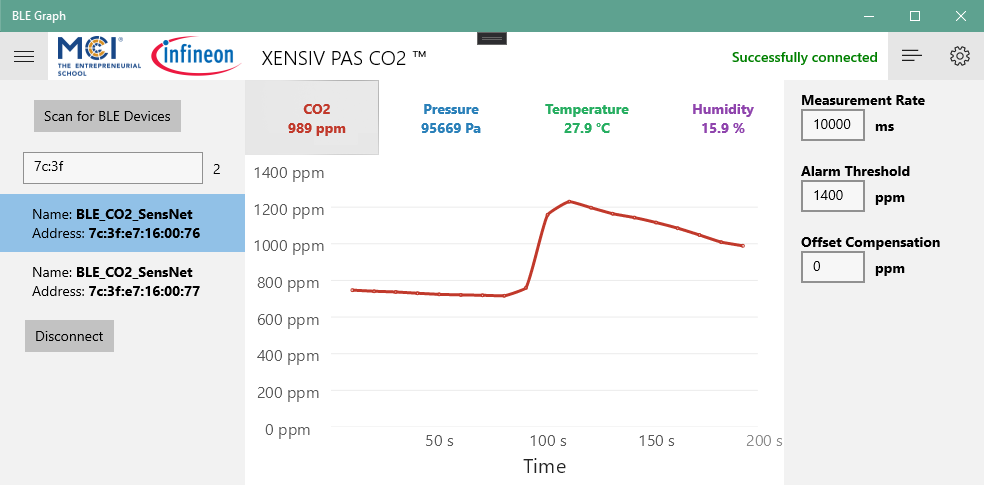
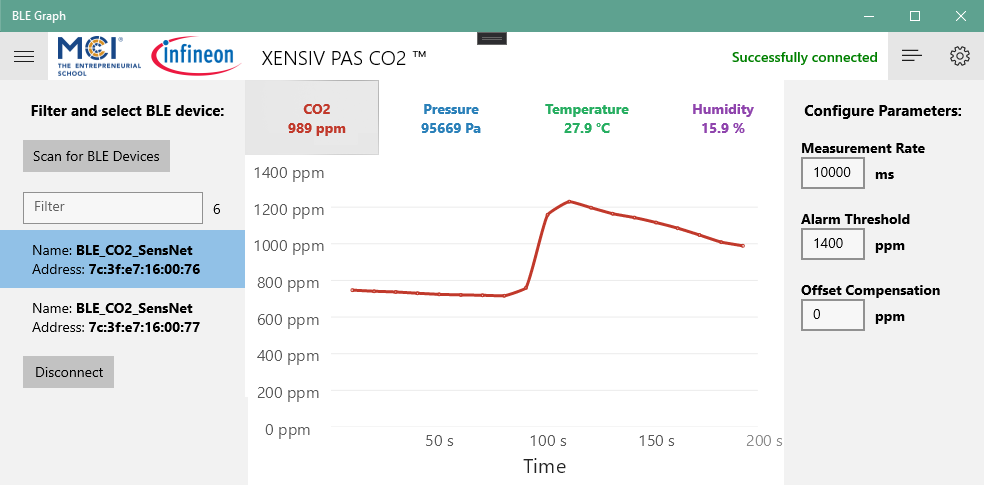
Changed App image and added text (getting strated - possible errors)

Changed region(s): [[0.0, 0.1856, 0.2744, 0.8041], [0.7927, 0.1856, 0.9756, 0.6804]]

diff --git a/README.md b/README.md
@@ -72,16 +72,18 @@ This project aims to implement a GUI to monitor and configure [PAS CO2 SensorNet
 <!-- GETTING STARTED -->
 ## Getting Started
 
-The application is developed as an UWP App in [Visual Studio 2019 Community](https://visualstudio.microsoft.com/de/downloads/). 
+The application is developed as a UWP App in [Visual Studio 2019 Community](https://visualstudio.microsoft.com/de/downloads/). 
 
-In order to execute it you need to download and extract the file into a directory. Then open the "BLE Graph.sln" file in Visual Studio and start it with F5.
+In order to execute it, you need to download and extract the file into a directory. Then open the "BLE Graph.sln" file in Visual Studio and start it with F5. In some cases, it is necessary to right-click the project and use "Clean" and "Rebuild". Also, in rare cases you need to reset/create a new certificate (double click "Package.appxmanifest" -> Packaging -> Publisher -> Choose Certificate -> Create -> OK).
 
-Note: This app can only be run with Windows 10 1809 or newer. This is because some of the used .Net Core Features are limited to newer Versions of Windows.
+Make sure your bluetooth device (USB Dongle or intergated device) is installed correctly. Also sometimes it is necessary to allow "[Communication with unpaired devices](https://stackoverflow.com/questions/62284426/uwp-bluetoothdevice-fromidasync-returns-null)" in the Windows Settings (Settings -> Privacy Settings -> Other Devices).
+
+Note: This app can only be run with Windows 10 1809 or newer. This is because some used .Net Core Features are limited to newer Versions of Windows.
 
 <!-- USAGE -->
 ## Usage
 
-On the left you can filter and click on one of the Sensor Boards to establish a connection to it. After that you can click on one of the values above to get the graph on this value or use the boxes on the right to configure it. The menu and configuration buttons on top left and right corner can be used to hide the according panels.
+On the left, you can filter and click on one of the Sensor Boards to establish a connection to it. After that, you can click on one of the values above to get the graph on this value or use the boxes on the right to configure it. The menu and configuration buttons on the top left and right corner can be used to hide the according panels.
 
 <a href="https://github.com/Infineon/AQM-Windows-App">
     <img src="images/App.png" alt="Application example" >
